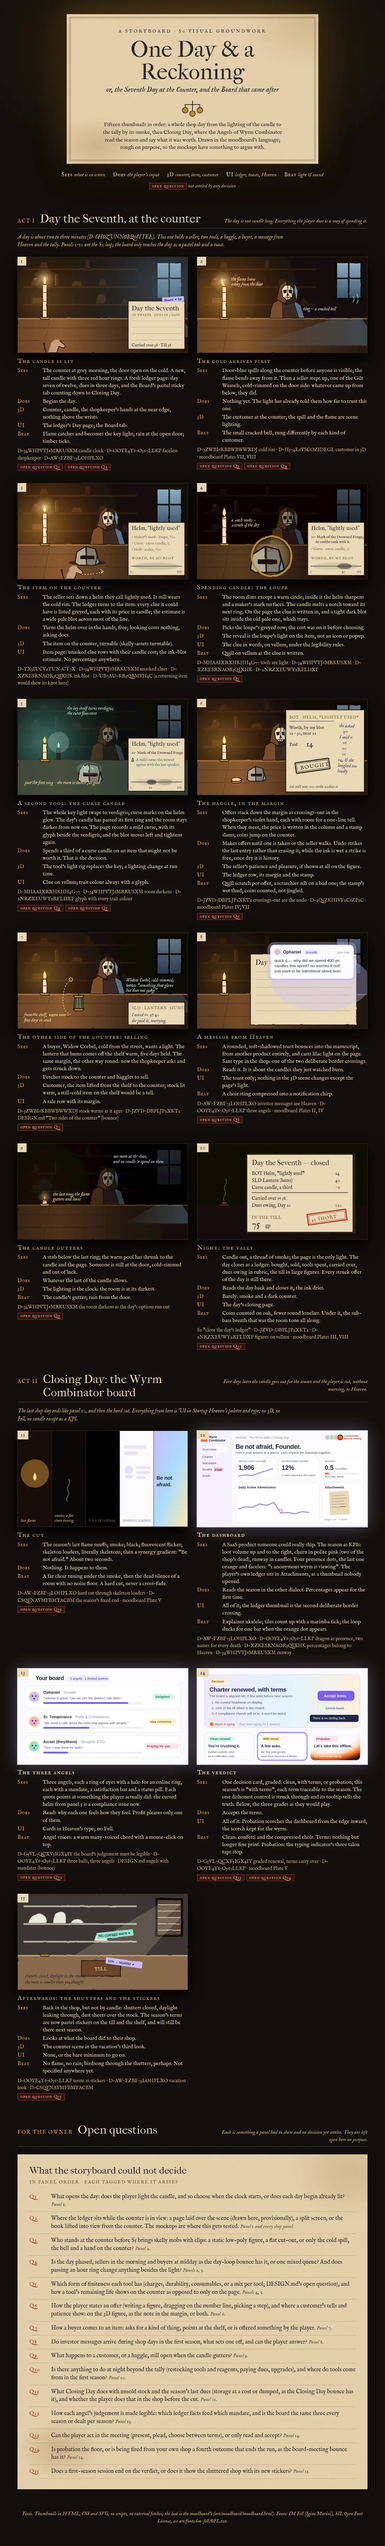
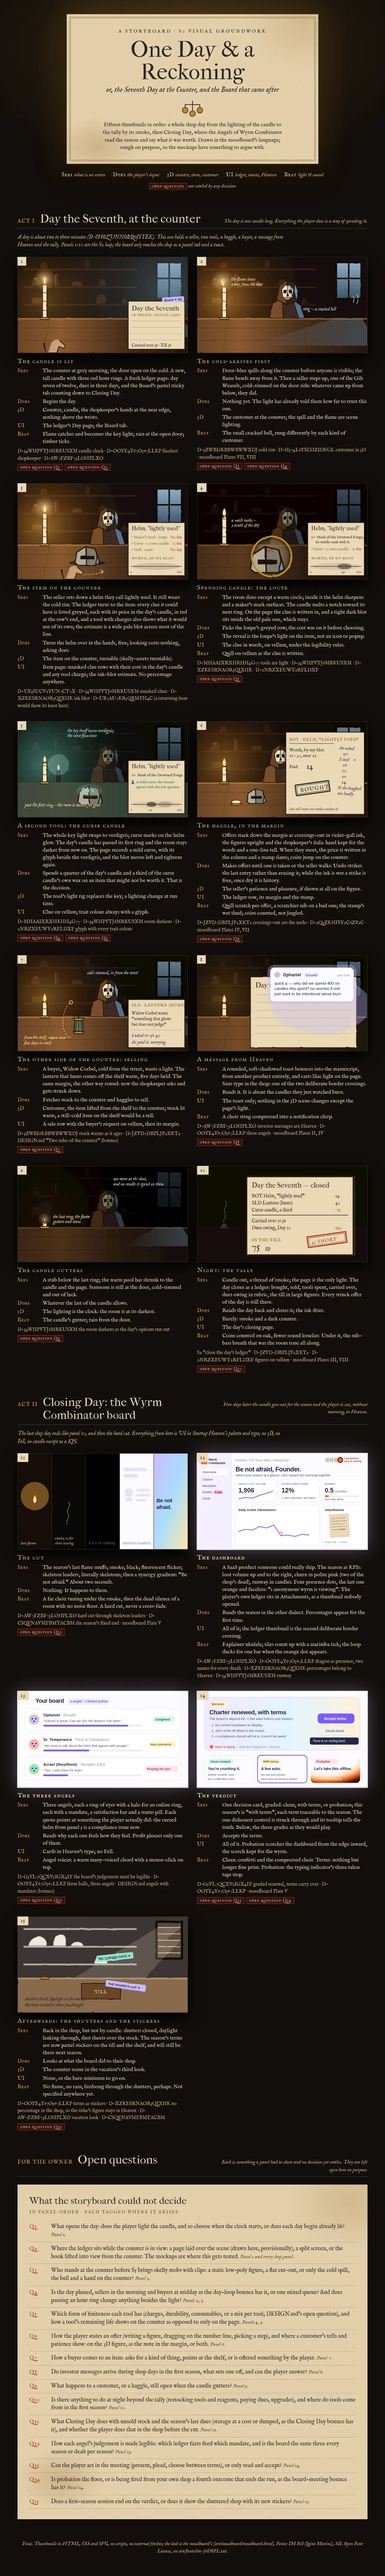
visual-groundwork: storyboard follows the uncertainty, legibility and candle decisions
A second opinion found panels that broke settled decisions: a
percentage on a shop sticker, offers written in the italic hand that
must not carry numbers, a buyer's request off the vellum, and clue rows
where the day's candle and a tool's own charge read as one cost. The
panels now obey them, so the mockups do not inherit the breaks.

Work: U-JQDCAVUO7ZIU55WX

Changed region(s): [[0.0309, 0.0, 0.9582, 0.7496], [0.0309, 0.7808, 0.8964, 0.9682], [0.0618, 0.9058, 0.0927, 0.9682]]

diff --git a/art/storyboard/storyboard.html b/art/storyboard/storyboard.html
@@ -292,9 +292,12 @@ figcaption dd b{font-weight:400;color:var(--tallow)}
         <rect width="160" height="150" fill="#ead9b6" stroke="#24130a" stroke-width="2"/>
         <text x="10" y="22" font-family="Fell Canon,Fell,serif" font-size="16" fill="#2a2320">Helm, "lightly used"</text>
         <g font-family="Fell,serif" font-size="11" fill="#7a6a55">
-          <text x="10" y="44">? Maker's mark · loupe, ⅒</text>
-          <text x="10" y="62">? Curse · curse candle, ⅓</text>
-          <text x="10" y="80">? Heft · scales, ⅒</text>
+          <text x="10" y="44">? Maker's mark · loupe</text>
+          <text x="10" y="62">? Curse · ⅓ curse candle</text>
+          <text x="10" y="80">? Heft · scales</text>
+        </g>
+        <g font-family="Fell,serif" font-size="11" fill="#a8321f" text-anchor="end">
+          <text x="152" y="44">⅒ day</text><text x="152" y="62">¼ day</text><text x="152" y="80">⅒ day</text>
         </g>
         <text x="10" y="104" font-family="Fell SC,Fell,serif" font-size="9.5" letter-spacing="1" fill="#6f5326">WORTH, BY MY BLOT</text>
         <ellipse cx="80" cy="124" rx="66" ry="10" fill="#2a2320" opacity=".14" filter="url(#rough)"/>
@@ -305,10 +308,10 @@ figcaption dd b{font-weight:400;color:var(--tallow)}
     <figcaption>
       <h3>The item on the counter</h3>
       <dl>
-        <dt>Sees</dt><dd>The seller sets down a helm they call lightly used. It still wears the cold rim. The ledger turns to the item: every clue it could have is listed greyed, each with its price in candle; the estimate is a wide pale blot across most of the line.</dd>
+        <dt>Sees</dt><dd>The seller sets down a helm they call lightly used. It still wears the cold rim. The ledger turns to the item: every clue it could have is listed greyed, each with its price in the day's candle, in red at the row's end, and a tool with charges also shows what it would use of its own; the estimate is a wide pale blot across most of the line.</dd>
         <dt>Does</dt><dd>Turns the helm over in the hands, free; looking costs nothing, asking does.</dd>
         <dt>3D</dt><dd>The item on the counter, turnable (skelly-assets turntable).</dd>
-        <dt>UI</dt><dd>Item page: unasked clue rows with their candle cost; the ink-blot estimate. No percentage anywhere.</dd>
+        <dt>UI</dt><dd>Item page: unasked clue rows with their cost in the day's candle and any tool charge; the ink-blot estimate. No percentage anywhere.</dd>
       </dl>
       <p class="refs">D-YX3IUCV2YUN7CT7X · D-34WHPVTJ6MRKUSXM unasked clues · D-XZKESRNAOR3QIXHK ink blot · D-UB7AU7KR5QBMYH4C (a returning item would show its knot here)</p>
     </figcaption>
@@ -338,7 +341,8 @@ figcaption dd b{font-weight:400;color:var(--tallow)}
         <text x="10" y="22" font-family="Fell Canon,Fell,serif" font-size="16" fill="#2a2320">Helm, "lightly used"</text>
         <text x="10" y="44" font-family="Fell,serif" font-size="11" fill="#2a2320">☞ Mark of the Drowned Forge;</text>
         <text x="22" y="58" font-family="Fell,serif" font-size="11" fill="#2a2320">its smiths sank with it.</text>
-        <g font-family="Fell,serif" font-size="11" fill="#7a6a55"><text x="10" y="78">? Curse · curse candle, ⅓</text></g>
+        <g font-family="Fell,serif" font-size="11" fill="#7a6a55"><text x="10" y="78">? Curse · ⅓ curse candle</text></g>
+        <text x="152" y="78" font-family="Fell,serif" font-size="11" fill="#a8321f" text-anchor="end">¼ day</text>
         <text x="10" y="104" font-family="Fell SC,Fell,serif" font-size="9.5" letter-spacing="1" fill="#6f5326">WORTH, BY MY BLOT</text>
         <ellipse cx="80" cy="124" rx="66" ry="10" fill="#2a2320" opacity=".1" filter="url(#rough)"/>
         <ellipse cx="104" cy="124" rx="20" ry="8" fill="#2a2320" opacity=".5" filter="url(#rough)"/>
@@ -370,12 +374,12 @@ figcaption dd b{font-weight:400;color:var(--tallow)}
       <polygon points="0,172 480,172 480,270 0,270" fill="url(#gctop)" opacity=".25"/>
       <use href="#cust" transform="translate(-30,24) scale(.45)" opacity=".45"/>
       <polygon points="62,170 90,170 87,176 65,176" fill="#b88a2c" stroke="#24130a" stroke-width="1.6"/>
-      <rect x="70" y="126" width="12" height="44" fill="#f4e4bc" stroke="#24130a" stroke-width="1.6"/>
-      <path d="M70 150h12" stroke="#a8321f" stroke-width="1.8"/>
+      <rect x="70" y="117" width="12" height="53" fill="#f4e4bc" stroke="#24130a" stroke-width="1.6"/>
+      <path d="M70 125h12M70 150h12" stroke="#a8321f" stroke-width="1.8"/>
       <rect x="110" y="140" width="10" height="30" fill="#2a2a2a" stroke="#24130a" stroke-width="1.4"/>
       <circle cx="115" cy="122" r="30" fill="#bff0df" opacity=".25"/>
       <path d="M115 138c-6-4-4-11 0-18 4 7 6 14 0 18z" fill="#bff0df" stroke="#4c8f80" stroke-width="1.5"/>
-      <path d="M76 124c-6-4-4-11 0-18 4 7 6 14 0 18z" fill="#ffe2a0" stroke="#e9a23b" stroke-width="1.5"/>
+      <path d="M76 115c-6-4-4-11 0-18 4 7 6 14 0 18z" fill="#ffe2a0" stroke="#e9a23b" stroke-width="1.5"/>
       <use href="#helm" transform="translate(170,182) scale(1.15)"/>
       <g stroke="#9ff5d6" stroke-width="2.4" fill="none" opacity=".95"><path d="M180 196l6-8 6 8M200 190v10M208 192l6 6"/></g>
       <ellipse cx="202" cy="196" rx="36" ry="18" fill="#9ff5d6" opacity=".18"/>
@@ -400,7 +404,7 @@ figcaption dd b{font-weight:400;color:var(--tallow)}
       <h3>A second tool: the curse candle</h3>
       <dl>
         <dt>Sees</dt><dd>The whole key light swaps to verdigris; curse marks on the helm glow. The day's candle has passed its first ring and the room stays darker from now on. The page records a mild curse, with its glyph beside the verdigris, and the blot moves left and tightens again.</dd>
-        <dt>Does</dt><dd>Spends a third of a curse candle on an item that might not be worth it. That is the decision.</dd>
+        <dt>Does</dt><dd>Spends a quarter of the day's candle and a third of the curse candle's own wax on an item that might not be worth it. That is the decision.</dd>
         <dt>3D</dt><dd>The tool's light rig replaces the key; a lighting change at run time.</dd>
         <dt>UI</dt><dd>Clue on vellum; trait colour always with a glyph.</dd>
       </dl>
@@ -432,16 +436,17 @@ figcaption dd b{font-weight:400;color:var(--tallow)}
           <text x="10" y="54">Worth, by my blot</text><text x="10" y="70">12 – 30, near 22</text>
           <text x="10" y="102">Paid</text>
         </g>
-        <g font-family="Fell,serif" font-style="italic" font-size="13.5" fill="#3b2f52" transform="rotate(3 180 100)">
-          <text x="148" y="50">she asked</text>
-          <text x="160" y="66" text-decoration="line-through" opacity=".6">40</text>
-          <text x="150" y="82">I said <tspan text-decoration="line-through" opacity=".6">6</tspan></text>
-          <text x="160" y="98" text-decoration="line-through" opacity=".6">28</text>
-          <text x="160" y="114" text-decoration="line-through" opacity=".6">10</text>
-          <text x="160" y="130" text-decoration="line-through" opacity=".6">21</text>
-          <text x="150" y="146">14, &amp; she</text>
-          <text x="150" y="162">laughed too</text>
-          <text x="150" y="178">loudly</text>
+        <g font-family="Fell,serif" font-size="13.5" fill="#3b2f52" transform="rotate(3 180 100)">
+          <g font-style="italic"><text x="148" y="50">she asked</text><text x="150" y="82">I said</text></g>
+          <g font-size="14.5">
+            <text x="160" y="66" text-decoration="line-through" opacity=".6">40</text>
+            <text x="190" y="82" text-decoration="line-through" opacity=".6">6</text>
+            <text x="160" y="98" text-decoration="line-through" opacity=".6">28</text>
+            <text x="160" y="114" text-decoration="line-through" opacity=".6">10</text>
+            <text x="160" y="130" text-decoration="line-through" opacity=".6">21</text>
+            <text x="160" y="146">14</text>
+          </g>
+          <g font-style="italic"><text x="150" y="162">&amp; she laughed</text><text x="150" y="178">too loudly</text></g>
         </g>
         <text x="58" y="104" font-family="Fell,serif" font-size="22" fill="#2a2320">14</text>
         <g transform="translate(26,150) rotate(-8)"><rect width="96" height="30" fill="none" stroke="#2a2320" stroke-width="3" stroke-dasharray="1 0"/><rect x="4" y="4" width="88" height="22" fill="none" stroke="#2a2320" stroke-width="1"/><text x="13" y="21" font-family="Fell SC,Fell,serif" font-size="15" letter-spacing="2" fill="#2a2320">BOUGHT</text></g>
@@ -451,7 +456,7 @@ figcaption dd b{font-weight:400;color:var(--tallow)}
     <figcaption>
       <h3>The haggle, in the margin</h3>
       <dl>
-        <dt>Sees</dt><dd>Offers stack down the margin as crossings-out in the shopkeeper's violet hand, each with room for a one-line tell. When they meet, the price is written in the column and a stamp slams; coins jump on the counter.</dd>
+        <dt>Sees</dt><dd>Offers stack down the margin as crossings-out in violet-gall ink, the figures upright and the shopkeeper's italic hand kept for the words and a one-line tell. When they meet, the price is written in the column and a stamp slams; coins jump on the counter.</dd>
         <dt>Does</dt><dd>Makes offers until one is taken or the seller walks. Undo strikes the last entry rather than erasing it; while the ink is wet a strike is free, once dry it is history.</dd>
         <dt>3D</dt><dd>The seller's patience and pleasure, if shown at all on the figure.</dd>
         <dt>UI</dt><dd>The ledger row, its margin and the stamp.</dd>
@@ -479,12 +484,20 @@ figcaption dd b{font-weight:400;color:var(--tallow)}
       <path d="M150 230c-30 0-30-80 0-98" fill="none" stroke="#ffe2a0" stroke-width="1.4" stroke-dasharray="4 4"/>
       <circle cx="150" cy="132" r="5" fill="none" stroke="#ffe2a0" stroke-width="1.4"/>
       <g font-family="Fell,serif" font-style="italic" font-size="13" fill="#ffe2a0"><text x="18" y="236">from the shelf, warm now —</text><text x="18" y="250">five days in stock</text></g>
-      <g font-family="Fell,serif" font-style="italic" font-size="13" fill="#cfe4f2"><text x="306" y="138">Widow Corbel, cold-rimmed;</text><text x="306" y="152">wants "something that glows</text><text x="306" y="166">but does not judge"</text></g>
+      <g font-family="Fell,serif" font-style="italic" font-size="13" fill="#cfe4f2"><text x="196" y="52">cold-rimmed, in from the street</text></g>
     </g>
-      <g transform="translate(312,196)"><rect width="160" height="64" fill="#ead9b6" stroke="#24130a" stroke-width="2"/>
+      <g transform="translate(312,124)"><rect width="160" height="136" fill="#ead9b6" stroke="#24130a" stroke-width="2"/>
         <text x="10" y="20" font-family="Fell SC,Fell,serif" font-size="11" letter-spacing="1" fill="#6f5326">SLD · LANTERN (HUMS)</text>
-        <text x="10" y="40" font-family="Fell,serif" font-style="italic" font-size="13" fill="#3b2f52">I asked <tspan text-decoration="line-through" opacity=".6">60</tspan> <tspan text-decoration="line-through" opacity=".6">48</tspan> 40</text>
-        <text x="10" y="56" font-family="Fell,serif" font-style="italic" font-size="13" fill="#3b2f52">she paid it. worrying.</text></g>
+        <g font-family="Fell,serif" font-size="12" fill="#2a2320">
+          <text x="10" y="42">Widow Corbel wants</text>
+          <text x="10" y="58">"something that glows</text>
+          <text x="10" y="74">but does not judge"</text>
+        </g>
+        <path d="M10 86h140" stroke="#2a2320" stroke-width=".8" opacity=".35"/>
+        <g font-family="Fell,serif" font-size="13" fill="#3b2f52">
+          <text x="10" y="106"><tspan font-style="italic">I asked</tspan> <tspan font-size="14" text-decoration="line-through" opacity=".6">60</tspan> <tspan font-size="14" text-decoration="line-through" opacity=".6">48</tspan> <tspan font-size="14">40</tspan></text>
+          <text x="10" y="124" font-style="italic">she paid it. worrying.</text>
+        </g></g>
     </svg><span class="n">7</span></div>
     <figcaption>
       <h3>The other side of the counter: selling</h3>
@@ -492,7 +505,7 @@ figcaption dd b{font-weight:400;color:var(--tallow)}
         <dt>Sees</dt><dd>A buyer, Widow Corbel, cold from the street, wants a light. The lantern that hums comes off the shelf warm, five days held. The same margin, the other way round: now the shopkeeper asks and gets struck down.</dd>
         <dt>Does</dt><dd>Fetches stock to the counter and haggles to sell.</dd>
         <dt>3D</dt><dd>Customer, the item lifted from the shelf to the counter; stock lit warm, a still-cold item on the shelf would be a tell.</dd>
-        <dt>UI</dt><dd>A sale row with its margin.</dd>
+        <dt>UI</dt><dd>A sale row with the buyer's request on vellum, then its margin.</dd>
       </dl>
       <p class="refs">D-3ZWBI6KBBWBWWXDJ stock warms as it ages · D-JZVD7DBPLJP2XKT2 · DESIGN.md "Two sides of the counter" (bounce)</p>
       <a class="oq" href="#q7">open question Q7</a>
@@ -784,7 +797,7 @@ figcaption dd b{font-weight:400;color:var(--tallow)}
       <polygon points="62,170 90,170 87,176 65,176" fill="#b88a2c" stroke="#24130a" stroke-width="1.6"/>
       <rect x="70" y="164" width="12" height="6" fill="#4a3a2a"/>
       <g transform="translate(180,188)"><rect width="110" height="44" fill="#6b4526" stroke="#24130a" stroke-width="2"/><text x="36" y="28" font-family="Fell SC,Fell,serif" font-size="13" fill="#ead9b6" letter-spacing="1">TILL</text></g>
-      <g transform="translate(250,178) rotate(8)"><rect width="104" height="18" rx="2" fill="#c9bcff"/><text x="6" y="13" font-family="Helvetica,Arial,sans-serif" font-weight="700" font-size="9" fill="#22264a">15% → HOARD ✦</text></g>
+      <g transform="translate(250,178) rotate(8)"><rect width="114" height="18" rx="2" fill="#c9bcff"/><text x="6" y="13" font-family="Helvetica,Arial,sans-serif" font-weight="700" font-size="9" fill="#22264a">THE HOARD'S CUT ✦</text></g>
       <g transform="translate(222,110) rotate(-6)"><rect width="104" height="18" rx="2" fill="#8fe6c8"/><text x="6" y="13" font-family="Helvetica,Arial,sans-serif" font-weight="700" font-size="9" fill="#22264a">NO CURSED HATS ✦</text></g>
       <g font-family="Fell,serif" font-style="italic" font-size="13" fill="#2a2320"><text x="20" y="236">shutters closed, daylight in the cracks;</text><text x="20" y="252">the room is smaller than you thought</text></g>
     </g></svg><span class="n">15</span></div>
@@ -797,7 +810,7 @@ figcaption dd b{font-weight:400;color:var(--tallow)}
         <dt>UI</dt><dd>None, or the bare minimum to go on.</dd>
         <dt>Beat</dt><dd>No flame, no rain; birdsong through the shutters, perhaps. Not specified anywhere yet.</dd>
       </dl>
-      <p class="refs">D-OOYE4Y67O567LLKP terms as stickers · D-AW7FZBF73LOHPLXO vacation look · D-CSQFNAVMFBMTACBM</p>
+      <p class="refs">D-OOYE4Y67O567LLKP terms as stickers · D-XZKESRNAOR3QIXHK no percentage in the shop, so the tithe's figure stays in Heaven · D-AW7FZBF73LOHPLXO vacation look · D-CSQFNAVMFBMTACBM</p>
       <a class="oq" href="#q15">open question Q15</a>
     </figcaption>
   </figure>

diff --git a/.work/slice/U-JQDCAVUO7ZIU55WX-visual-groundwork/STATE.md b/.work/slice/U-JQDCAVUO7ZIU55WX-visual-groundwork/STATE.md
@@ -55,3 +55,4 @@ Storyboard awaits owner review, chiefly its open questions Q1–Q15 (art/storybo
 - 2026-11-15 moodboard landed in art/moodboard: second pass as base, first pass's unique bits folded in
 - 2026-11-15 owner's moodboard choices recorded as nine decisions
 - 2026-11-15 storyboard of one shop day and the board meeting landed in art/storyboard, with fifteen open questions for the owner
+- 2026-11-15 storyboard contradictions fixed after the second opinion: no percentage in the shop, offers in upright figures, the buyer's request on vellum, the day's candle and a tool's charge told apart on clue rows
